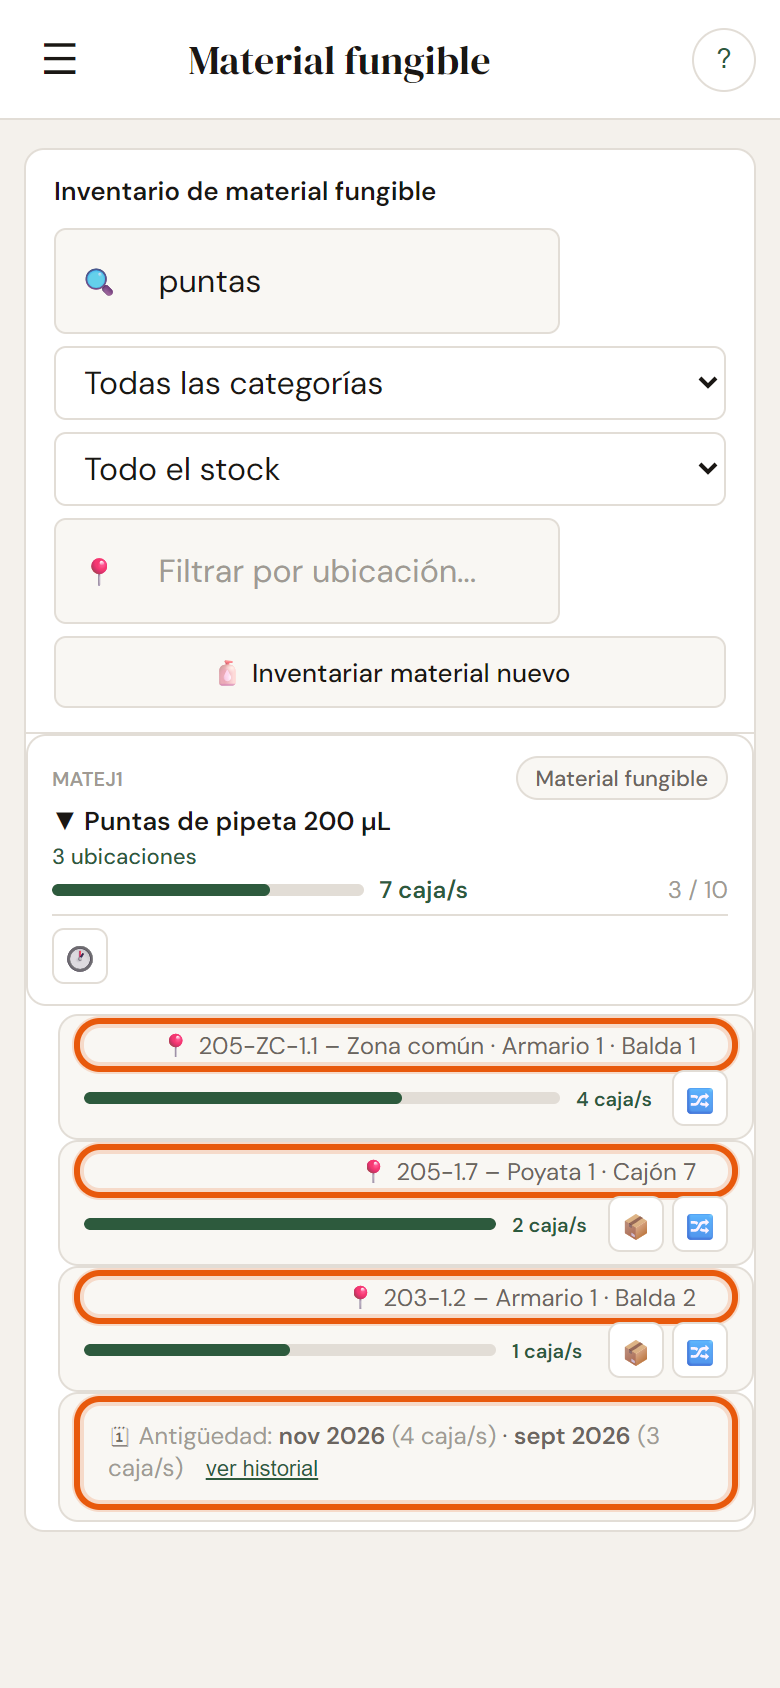
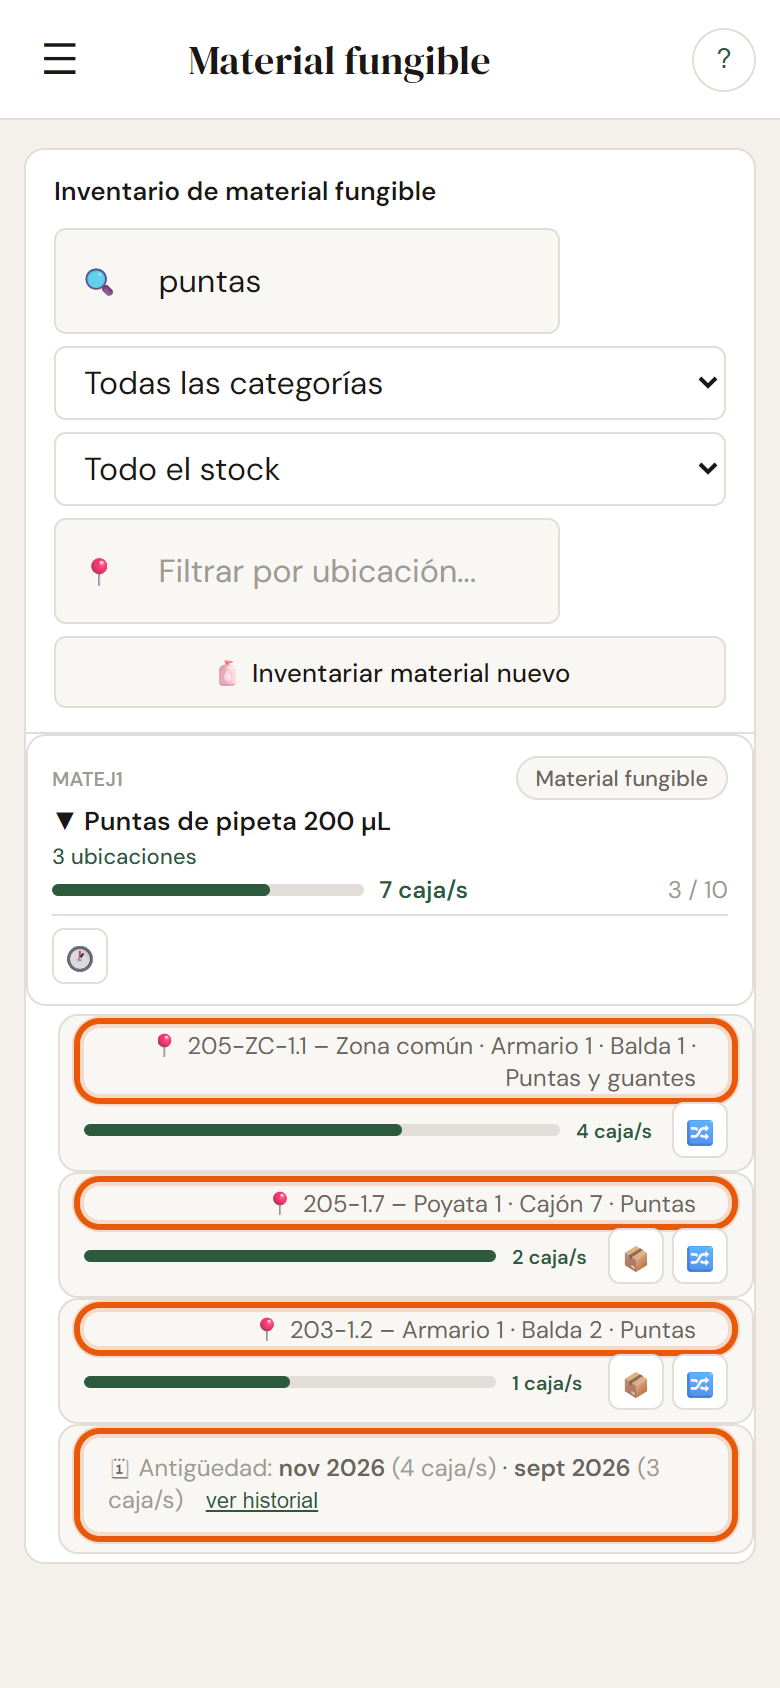
Ayuda: capturas de material y EMP-6 con la convención nueva de ubicaciones
Los datos de ejemplo ponían la balda en el campo que desde el 25/11 es «uso / contenido».
Ahora: localización «Armario 1 · Balda 1» y uso «Puntas y guantes». Rehechas las capturas
de STO-1, STO-2, STO-3 y EMP-6; STO-1 describe la línea de cada bote con la convención nueva.

Changed region(s): [[0.0615, 0.6161, 0.9846, 0.9242]]

diff --git a/tools/capturas-ayuda/_demo-alumno.js b/tools/capturas-ayuda/_demo-alumno.js
@@ -36,11 +36,12 @@ async (page, APP) => {
     ];
     // Ubicaciones, material y residuos de ejemplo
     DATA.ubicaciones = [
-      _ubicacionSbToObj({ id_ubicacion: '205-ZC-1.1', laboratorio_aula: '205 - Zona común', zona: 'Armario 1', subzona: 'Balda 1', descripcion_completa: 'Zona común · Armario 1 · Balda 1', activa: true }),
-      _ubicacionSbToObj({ id_ubicacion: '205-ZC-2.1', laboratorio_aula: '205 - Zona común', zona: 'Reactivos', subzona: 'Inferior', descripcion_completa: 'Zona común · Reactivos · Inferior', activa: true }),
-      _ubicacionSbToObj({ id_ubicacion: '205-1.7', laboratorio_aula: '205', zona: 'Poyata 1', subzona: 'Cajón 7', descripcion_completa: 'Lab 205 · Poyata 1 · Cajón 7', activa: true }),
-      _ubicacionSbToObj({ id_ubicacion: '205-2.3', laboratorio_aula: '205', zona: 'Armario 2', subzona: 'Balda 3', descripcion_completa: 'Lab 205 · Armario 2 · Balda 3', activa: true }),
-      _ubicacionSbToObj({ id_ubicacion: '203-1.2', laboratorio_aula: '203', zona: 'Armario 1', subzona: 'Balda 2', descripcion_completa: 'Lab 203 · Armario 1 · Balda 2', activa: true }),
+      // Convención del 2026-11-25: zona = localización («Armario 1 · Balda 1»), subzona = uso / contenido.
+      _ubicacionSbToObj({ id_ubicacion: '205-ZC-1.1', laboratorio_aula: '205 - Zona común', zona: 'Armario 1 · Balda 1', subzona: 'Puntas y guantes', descripcion_completa: '', activa: true }),
+      _ubicacionSbToObj({ id_ubicacion: '205-ZC-2.1', laboratorio_aula: '205 - Zona común', zona: 'Armario 2 · Inferior', subzona: 'Reactivos', descripcion_completa: '', activa: true }),
+      _ubicacionSbToObj({ id_ubicacion: '205-1.7', laboratorio_aula: '205', zona: 'Poyata 1 · Cajón 7', subzona: 'Puntas', descripcion_completa: '', activa: true }),
+      _ubicacionSbToObj({ id_ubicacion: '205-2.3', laboratorio_aula: '205', zona: 'Armario 2 · Balda 3', subzona: 'Vidrio', descripcion_completa: '', activa: true }),
+      _ubicacionSbToObj({ id_ubicacion: '203-1.2', laboratorio_aula: '203', zona: 'Armario 1 · Balda 2', subzona: 'Puntas', descripcion_completa: '', activa: true }),
     ];
     DATA.material = [
       _materialSbToObj({ id_material: 'MATEJ1', nombre: 'Puntas de pipeta 200 µL', categoria: 'Material fungible — puntas, tubos, placas, Eppendorf...', unidad: 'caja/s', stock_actual: 7, stock_minimo: 2, stock_optimo: 8 }),

diff --git a/js/ayuda.js b/js/ayuda.js
@@ -379,7 +379,7 @@ const AYUDA_TAREAS = {
         alt: 'Tres materiales con la barra de stock señalada: verde, ámbar y roja',
       },
       {
-        texto: '**Pulsar el material para desplegarlo y ver cada bote**: una línea por sitio, con «📍», el código y el nombre del sitio (laboratorio, armario, balda), cuánto hay en cada uno y «☣ ESTÉRIL» si es de uso estéril. Los botes del almacén llevan «Zona común» en el nombre del sitio.',
+        texto: '**Pulsar el material para desplegarlo y ver cada bote**: una línea por sitio, con «📍», el código del sitio, dónde está (armario, balda, cajón…) y qué se guarda ahí, cuánto hay en cada uno y «☣ ESTÉRIL» si es de uso estéril. Los botes del almacén llevan «Zona común» delante.',
         img: 'STO-1/03-material-desplegado.png',
         alt: 'Material desplegado con una línea por bote y la línea de antigüedad señaladas',
       },
